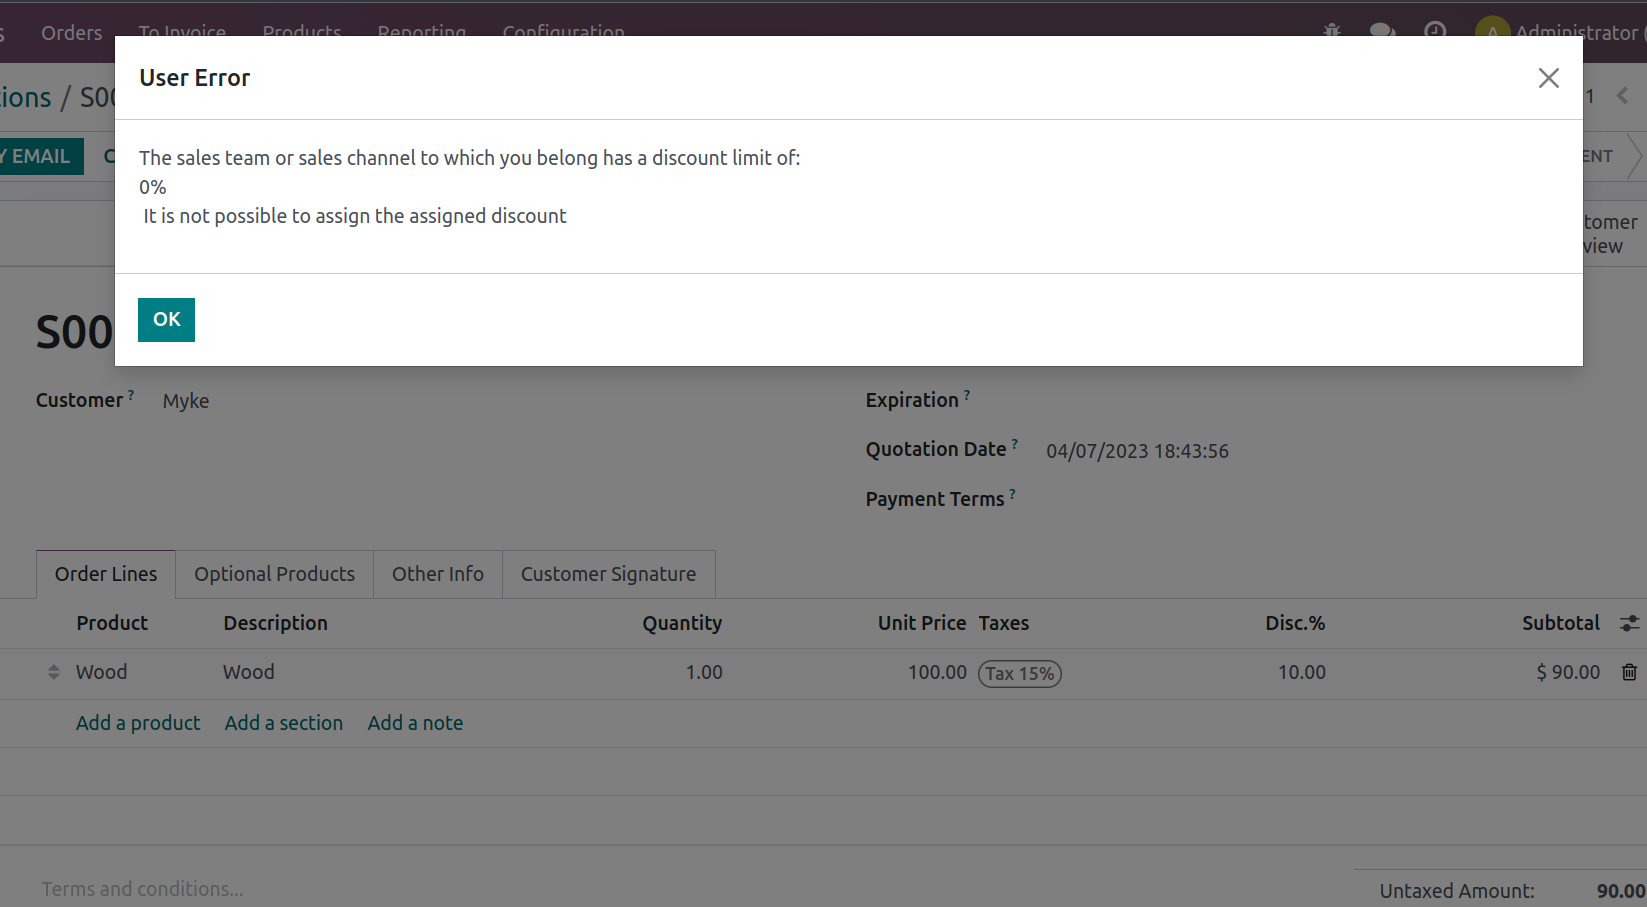
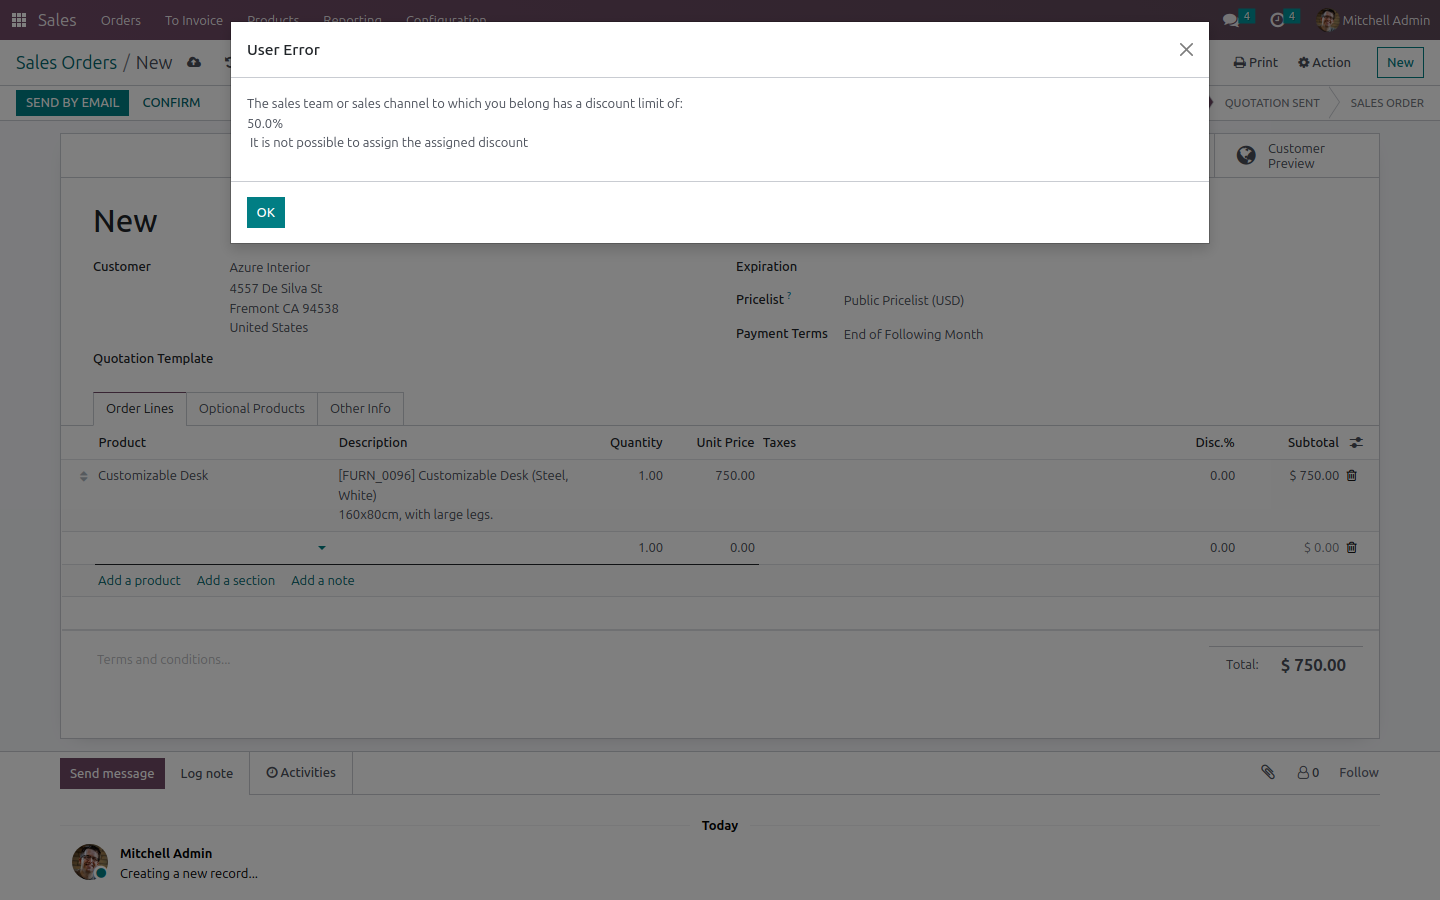
Refresh Apps Store screenshots with real captures verified on Odoo 16
This Odoo 14.0 environment cannot be installed on this machine, so the
same real screenshots captured and verified against a live Odoo 16
install of this module are reused here (approved exception): the
Discount limit field on the Sales Team form, the limit set to 50%,
and the actual blocking error when a discount above the team's limit
is applied on a sale order line. Also fixes index.html to be
well-formed XML (single root, self-closed img tags, no stray closing
tags) so the Apps Store description no longer risks being silently
dropped.

diff --git a/ach_limit_discount/static/description/index.html b/ach_limit_discount/static/description/index.html
@@ -1,10 +1,11 @@
+<div>
 <section class="oe_container">
     <div class="oe_row oe_spaced">
         <h1 class="oe_slogan" style="color:#875A7B;">Sales Discount Limit</h1>
         <h3 class="oe_slogan">Set the discount limit at the sales team level</h3>
         <div class="oe_span12 text-center">
             <div class="oe_demo oe_picture oe_screenshot">
-                <img style="width: 40%; min-width: 45%;" src="version_odoo.jpg">
+                <img style="width: 40%; min-width: 45%;" src="version_odoo.jpg" alt="Sales Discount Limit"/>
             </div>
         </div>
     </div>
@@ -14,21 +15,21 @@
     <div class="oe_row oe_spaced">
         <h2 class="oe_slogan">Translated languages</h2>
         <div class="oe_span1 text-center">
-            <img class="o_kanban_image" src="flag/arg.png"/>
-            <img class="o_kanban_image" src="flag/bol.png"/>
-            <img class="o_kanban_image" src="flag/chile.jpeg"/>
-            <img class="o_kanban_image" src="flag/col.png"/>
-            <img class="o_kanban_image" src="flag/cr.jpeg"/>
-            <img class="o_kanban_image" src="flag/ecu.png"/>
-            <img class="o_kanban_image" src="flag/eeuu.png"/>
-            <img class="o_kanban_image" src="flag/esp.png"/>
-            <img class="o_kanban_image" src="flag/gt.png"/>
-            <img class="o_kanban_image" src="flag/hnd.png"/>
-            <img class="o_kanban_image" src="flag/mex.png"/>
-            <img class="o_kanban_image" src="flag/nic.png"/>
-            <img class="o_kanban_image" src="flag/pana.png"/>
-            <img class="o_kanban_image" src="flag/sv.jpeg"/>
-            <img class="o_kanban_image" src="flag/ven.png"/>
+            <img class="o_kanban_image" src="flag/arg.png" alt="Argentina"/>
+            <img class="o_kanban_image" src="flag/bol.png" alt="Bolivia"/>
+            <img class="o_kanban_image" src="flag/chile.jpeg" alt="Chile"/>
+            <img class="o_kanban_image" src="flag/col.png" alt="Colombia"/>
+            <img class="o_kanban_image" src="flag/cr.jpeg" alt="Costa Rica"/>
+            <img class="o_kanban_image" src="flag/ecu.png" alt="Ecuador"/>
+            <img class="o_kanban_image" src="flag/eeuu.png" alt="United States"/>
+            <img class="o_kanban_image" src="flag/esp.png" alt="Spain"/>
+            <img class="o_kanban_image" src="flag/gt.png" alt="Guatemala"/>
+            <img class="o_kanban_image" src="flag/hnd.png" alt="Honduras"/>
+            <img class="o_kanban_image" src="flag/mex.png" alt="Mexico"/>
+            <img class="o_kanban_image" src="flag/nic.png" alt="Nicaragua"/>
+            <img class="o_kanban_image" src="flag/pana.png" alt="Panama"/>
+            <img class="o_kanban_image" src="flag/sv.jpeg" alt="El Salvador"/>
+            <img class="o_kanban_image" src="flag/ven.png" alt="Venezuela"/>
         </div>
     </div>
 </section>
@@ -45,7 +46,7 @@
             <p class="text-center">
                 In the form view you will have a field called discount limit, where you will place the percentage allowed for this equipment
             </p>
-            <img style="min-width: 85%;" class="oe_picture oe_screenshot center" src="sales_channels_01.png">
+            <img style="min-width: 85%;" class="oe_picture oe_screenshot center" src="sales_channels_01.png" alt="Discount limit field on the Sales Team form"/>
         </div>
     </div>
 </section>
@@ -58,7 +59,7 @@
             <p class="text-center">
                 As we see in this example, we will set a limit of 50% discount allowed on equipment sales.
             </p>
-            <img style="min-width: 85%;" class="oe_picture oe_screenshot text-center" src="sales_channels_02.png">
+            <img style="min-width: 85%;" class="oe_picture oe_screenshot text-center" src="sales_channels_02.png" alt="Discount limit set to 50 percent and saved on the Sales Team"/>
         </div>
     </div>
 </section>
@@ -71,7 +72,7 @@
             <p class="text-center">
                 When you establish a greater discount than allowed for your sales team, it will notify you by means of a message, indicating the limit of your sales team.
             </p>
-            <img class="oe_picture oe_screenshot text-center" src="error_discount.png">
+            <img class="oe_picture oe_screenshot text-center" src="error_discount.png" alt="Blocking error when the discount on a sale order line exceeds the sales team limit"/>
         </div>
     </div>
 </section>
@@ -87,3 +88,4 @@
         </div>
     </div>
 </section>
+</div>

diff --git a/ach_limit_discount/__manifest__.py b/ach_limit_discount/__manifest__.py
@@ -10,7 +10,7 @@
     'license': 'LGPL-3',
     'support': 'developmentalchemygx@gmail.com',
     'category': 'Sales',
-    'version': '1.1',
+    'version': '1.2',
     'price': 3.00,
     'currency': 'USD',
     'depends': ['base', 
